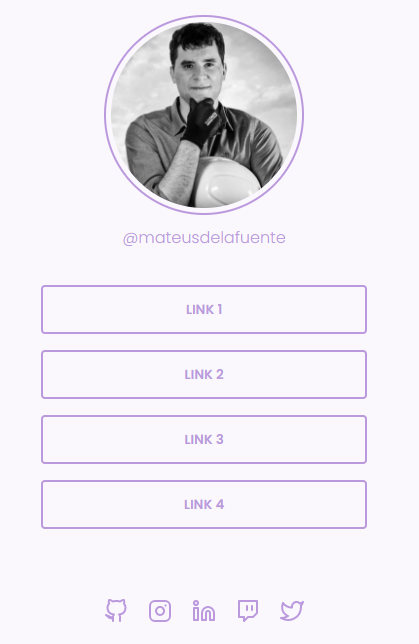
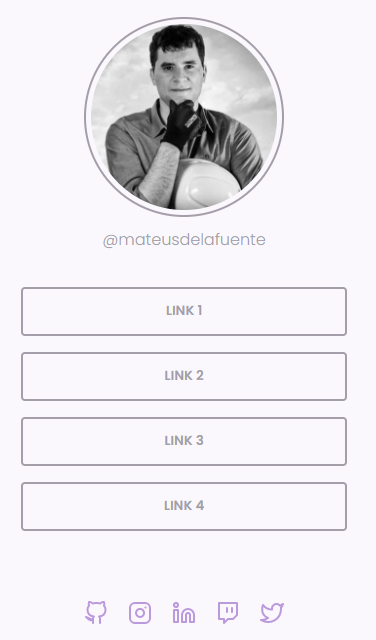
Fix colors

diff --git a/styles.css b/styles.css
@@ -7,7 +7,7 @@
 
 :root {
     --body-bg-color: #FAF7FD;
-    --purple: #BB99DD;
+    --purple: #a49daa;
 }
 
 body {
